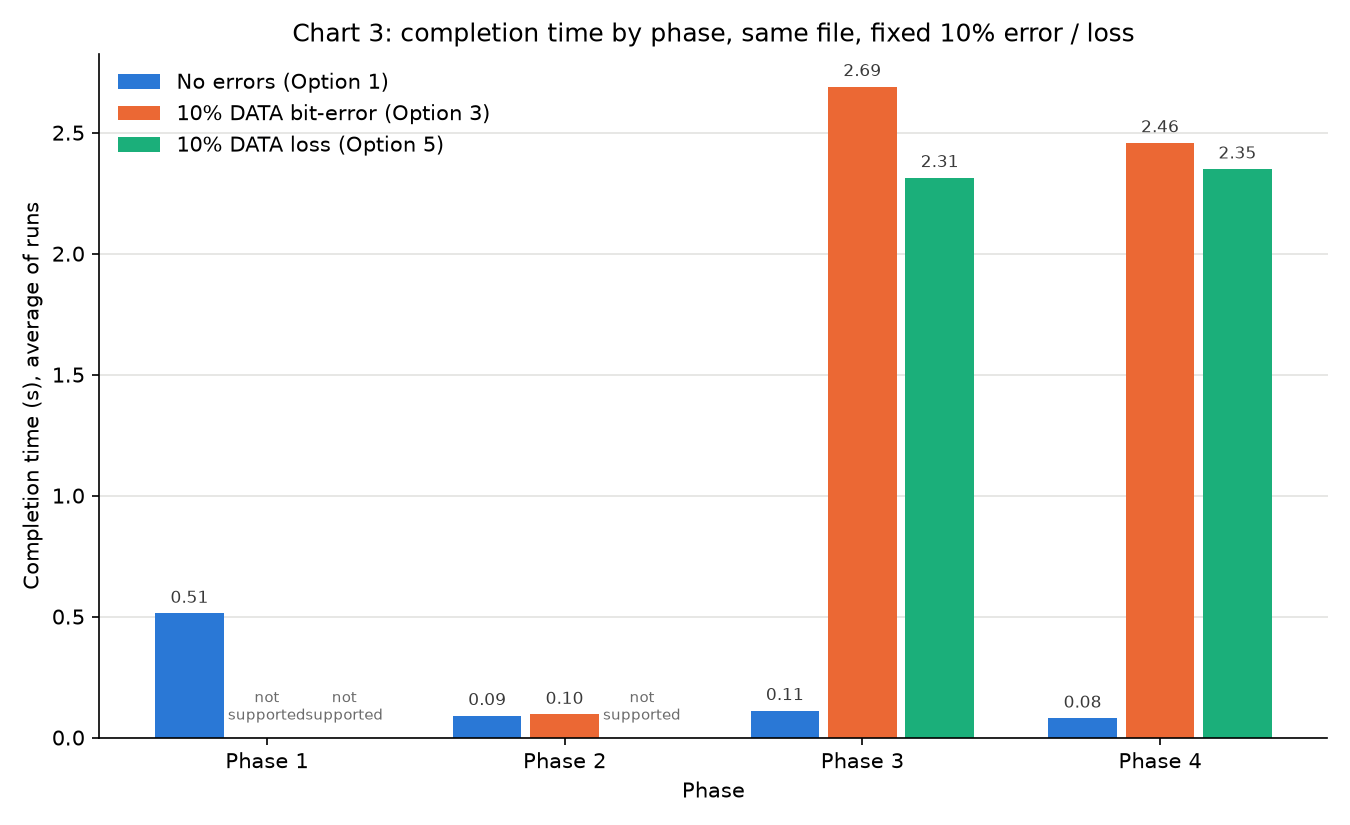
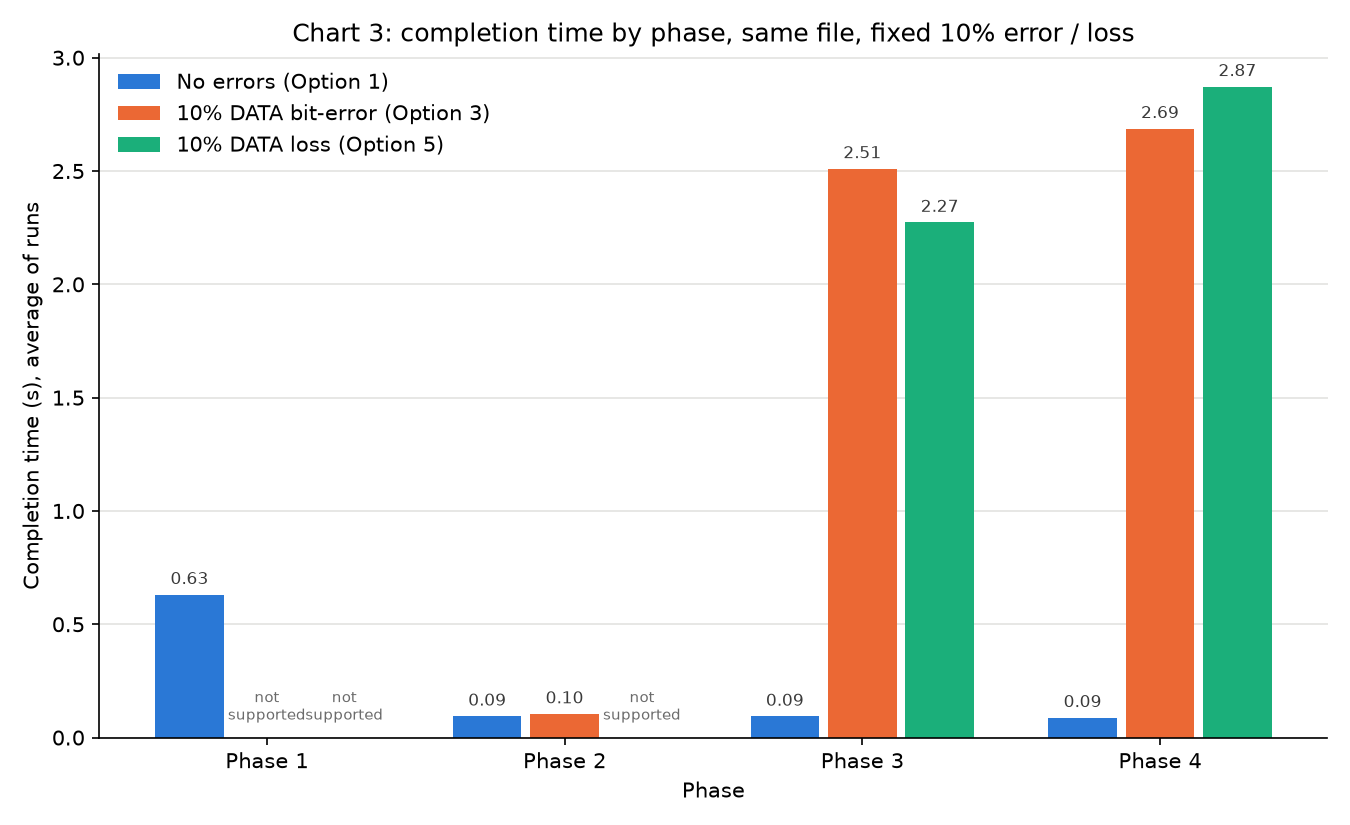
Add Phase 1-4 performance comparison and Graph 3 results

diff --git a/scripts/chart3_phases.py b/scripts/chart3_phases.py
@@ -75,6 +75,8 @@ def sha256(path):
 
 
 def one_run(phase, send_file, receive_file, in_file, out_file, option, rate):
+    if os.path.exists(out_file):
+        os.remove(out_file)
     sock = socket.socket(socket.AF_INET, socket.SOCK_DGRAM)
     sock.bind(("127.0.0.1", 0))             # free port, so runs never mix
     port = sock.getsockname()[1]
